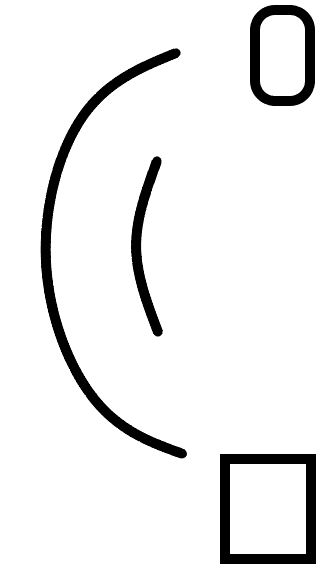
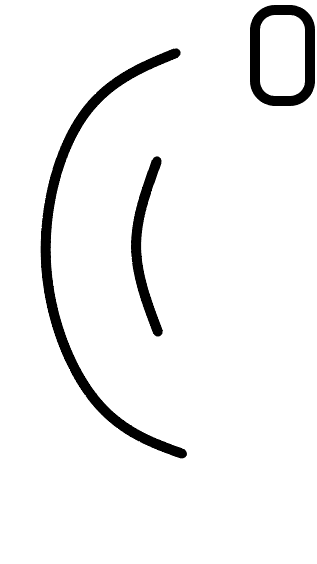
Vi har lavet burgermenu

Changed region(s): [[0.6814, 0.7837, 1.0, 1.0]]

diff --git a/Eksamensprojekt/LadDerVaereLys.xaml b/Eksamensprojekt/LadDerVaereLys.xaml
@@ -1,5 +1,5 @@
 <Page
-    x:Class="Eksamensprojekt.MainPage"
+    x:Class="Eksamensprojekt.LadDerVaereLys"
     xmlns="http://schemas.microsoft.com/winfx/2006/xaml/presentation"
     xmlns:x="http://schemas.microsoft.com/winfx/2006/xaml"
     xmlns:local="using:Eksamensprojekt"
@@ -9,16 +9,15 @@
     Background="{ThemeResource ApplicationPageBackgroundThemeBrush}">
 
     <Grid>
-        <Grid.Background>
-            <ImageBrush ImageSource="Assets/Eksamensprojekt billed.jpg" Stretch="UniformToFill"></ImageBrush>
-        </Grid.Background>
+<Grid.Background>
+<ImageBrush ImageSource ="Assets/Rum 1.png" Stretch ="UniformToFill"></ImageBrush>
+</Grid.Background>
         <RelativePanel Margin="0,0,0,0">
             <Button Name="HamburgerButton" Background="White" FontFamily="Segoe MDL2 Assets" Content="&#xE700;" Margin="10,23,0,0" Click="HamburgerButton_OnClick" HorizontalAlignment="Left" VerticalAlignment="Top"></Button>
         </RelativePanel>
-        <SplitView Name="SplitView" IsPaneOpen="False" OpenPaneLength="250" Opacity="0.6">
+        <SplitView Name="SplitView" IsPaneOpen="False" OpenPaneLength="150" Opacity="0.6">
             <SplitView.Pane>
-                <StackPanel Margin="0,60,0,0" Padding="20">
-                    <Button Click="Rum1_OnClick" Background="DarkGoldenrod" >Lad Der Være Lys</Button></StackPanel>
+                <StackPanel></StackPanel>
             </SplitView.Pane>
             <SplitView.Content>
                 <StackPanel ></StackPanel>

diff --git a/Eksamensprojekt/LadDerVaereLys.xaml.cs b/Eksamensprojekt/LadDerVaereLys.xaml.cs
@@ -13,28 +13,22 @@ using Windows.UI.Xaml.Input;
 using Windows.UI.Xaml.Media;
 using Windows.UI.Xaml.Navigation;
 
-// The Blank Page item template is documented at https://go.microsoft.com/fwlink/?LinkId=402352&clcid=0x409
+// The Blank Page item template is documented at https://go.microsoft.com/fwlink/?LinkId=234238
 
 namespace Eksamensprojekt
 {
     /// <summary>
     /// An empty page that can be used on its own or navigated to within a Frame.
     /// </summary>
-    public sealed partial class MainPage : Page
+    public sealed partial class LadDerVaereLys : Page
     {
-        public MainPage()
+        public LadDerVaereLys()
         {
             this.InitializeComponent();
         }
-
         private void HamburgerButton_OnClick(object sender, RoutedEventArgs e)
         {
             this.SplitView.IsPaneOpen = !this.SplitView.IsPaneOpen;
-        }
-
-        private void Rum1_OnClick(object sender, RoutedEventArgs e)
-        {
-            this.Frame.Navigate(typeof(LadDerVaereLys));
         }
     }
 }

diff --git a/Eksamensprojekt/ViewModel.cs b/Eksamensprojekt/ViewModel.cs
@@ -6,7 +6,7 @@ using System.Threading.Tasks;
 
 namespace Eksamensprojekt
 {
-    class ViewModel
+   public class ViewModel
     {
     }
 }
